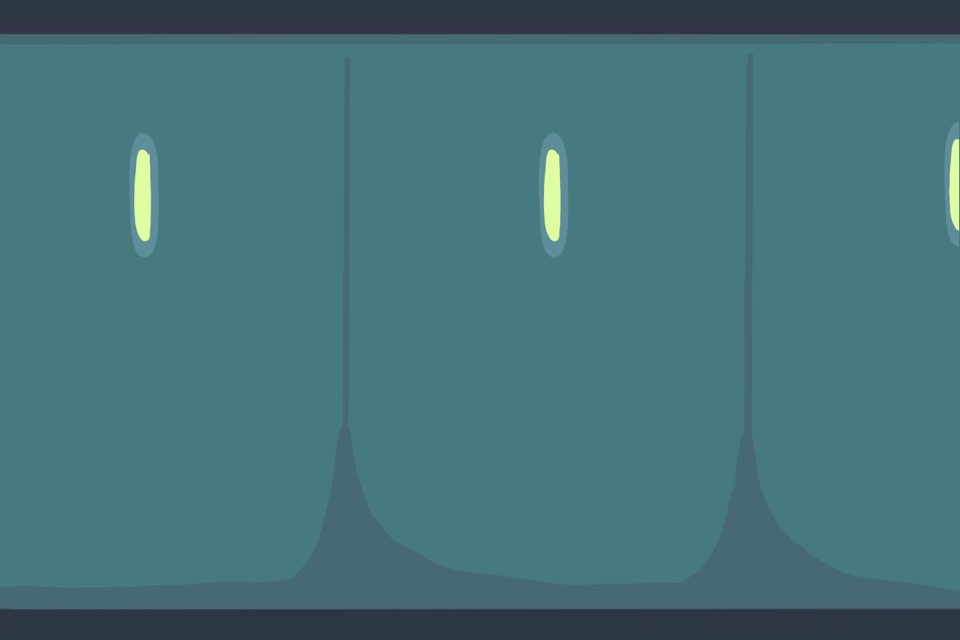
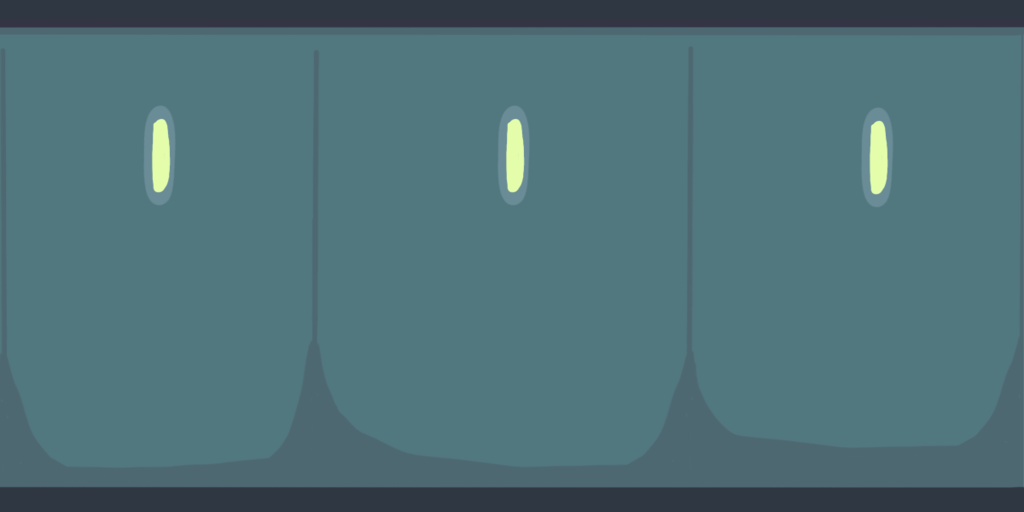
Update :: 장애물, 칼 리팩토링

diff --git a/Run.py b/Run.py
@@ -7,19 +7,18 @@ RED = (255, 0, 0)
 
 pad_width = 1024
 pad_height = 512
-background_width = 900
+background_width = 1024
 
 amongus_width = 90
 amongus_height = 120
 
-obstacle1_width = 140
-obstacle1_height = 61
-obstacle2_width = 86
-obstacle2_height = 59
+obstacle1_width = 200
+obstacle1_height = 254
+obstacle2_width = 72
+obstacle2_height = 55
+
 knife_width = 157
 knife_height = 99
-oc_width = 200
-oc_height = 254
 
 crashed = 3
 
@@ -62,11 +61,12 @@ def drawObject(obj, x,y):
 
 
 
-
 # 게임을 초기화하고 시작하는 함수
 def initGame():
-    global gamepad, clock, obstacles, background1, background2, background3, underBackground
-    global test, test2, test3, test4, jump_img, oc, crashed, knife
+    global gamepad, clock, obstacles, background1, background2
+    global test, test2, test3, test4, jump_img, crashed, knives
+
+    knives = []
     obstacles = []
 
     # pygame 라이브러리 초기화
@@ -74,35 +74,36 @@ def initGame():
     pygame.init()
     gamepad = pygame.display.set_mode((pad_width, pad_height))
     pygame.display.set_caption("PyFlying")
+
     # 그림
     test = './assets/image/am01.png'
     test2 = './assets/image/am02.png'
     test3 = './assets/image/am03.png'
     test4 = './assets/image/am04.png'
     jump_img = './assets/image/amJump.png'
+
     background1 = pygame.image.load('./assets/image/background.png')
-    background2 = pygame.image.load('./assets/image/background2.png')
-    background3 = pygame.image.load('./assets/image/background3.png')
-    underBackground = pygame.image.load('./assets/image/underBack.png')
-    obstacles.append((0, pygame.image.load('./assets/image/obstacle1.png')))
+    background2 = pygame.image.load('./assets/image/background.png')
+
+    knives.append((0, pygame.image.load('./assets/image/knife.png')))
+    obstacles.append((0, pygame.image.load('./assets/image/obstacle.png')))
     obstacles.append((1, pygame.image.load('./assets/image/obstacle2.png')))
-    obstacles.append((2, pygame.image.load('./assets/image/knife.png')))
-    oc = pygame.image.load('./assets/image/obstacle.png')
 
     # 장애물 갯수 조절
+    for i in range(2):
+        knives.append((i+1, None))
     for i in range(3):
         obstacles.append((i+2, None))
-
+        
     # FPS 설정을 위해 clock 생성 (runGame에서 사용 -> clock.tick(60) -> 60프레임)
     clock = pygame.time.Clock()
     runGame()
 
 
-
 # <-- initGame() 에서 호출!
 def runGame():
-    global gamepad, clock, obstacles, background1, background2, background3, underBackground
-    global test, test2, test3, test4, jump_img, oc, crashed, knife
+    global gamepad, clock, obstacles, background1, background2
+    global test, test2, test3, test4, jump_img, crashed, knives
 
     # 플레이어 자동차 생성
     player = jump.Characters(VELOCITY, MASS)
@@ -111,24 +112,26 @@ def runGame():
 
     leg_swap = 0;
 
-    # x = pad_width * 0.05
-    # y = pad_height * 0.8
-
+    # 배경 위치
     background1_x = 0
     background2_x = background_width
-    background3_x = background_width * 2
-    # underBack_x = 0
 
+    # 장애물 위치
     obstacle_x = pad_width
-    obstacle_y = random.randrange(0, pad_height)
+    obstacle_y = pad_height - obstacle1_height
+    obstacle2_y = pad_height - obstacle2_height
     random.shuffle(obstacles)
     obstacle = obstacles[0]
+    
 
-    oc_x = pad_width
-    oc_y = pad_height - oc_height
+    # 칼 위치
+    knife_x = pad_width
+    knife_y = random.randrange(0, pad_height)
+    random.shuffle(knives)
+    knife = knives[0]
+
 
     # 게임 종료를 위한 변수
-    
     if crashed != 0:
         flag = False
     else:
@@ -172,81 +175,70 @@ def runGame():
         # 배경 2 씩 이동
         background1_x -= 2
         background2_x -= 2
-        background3_x -= 2
-        # underBack_x -= 2
 
         # 배경이 다 지나가면 다시 설정
-        if background1_x == -(background_width*2):
-            background1_x = background_width*2
-        if background2_x == -(background_width*2):
-            background2_x = background_width*2
-        if background3_x == -(background_width*2):
-            background3_x = background_width*2
-
-        # if underBack_x == -(underBack_x):
-        #     underBack_x = 0
+        if background1_x == -(background_width):
+            background1_x = background_width
+        if background2_x == -(background_width):
+            background2_x = background_width
 
         # 장애물이 없으면 60씩 이동(시간 지체)
         # 장애물이 있으면 20씩 이동
         if obstacle[1] == None:
             obstacle_x -= 60
         else:
-            if obstacle[0] == 1:
-                obstacle_y += 4
             obstacle_x -= 20
-            if obstacle[0] == 2:
-                obstacle_x -= 10
-        # 장애물이 다 지나가면 다시 설정
+            # if obstacle[0] == 1:
+            #     obstacle_x -= 10
+        
         if obstacle_x <= 0:
             obstacle_x = pad_width
-            obstacle_y = random.randrange(0, (pad_height - amongus_height))
             random.shuffle(obstacles)
             obstacle = obstacles[0]
 
-        oc_x -= 20
-        if oc_x <= 0:
-            oc_x = pad_width
 
-        # position
-        # 캐릭터가 화면 안에서만 움직이게
-        # y += y_change
-        # if y < 0:
-        #     y = 0
-        # elif y > pad_height - amongus_height:
-        #     y = pad_height - amongus_height
+        # 칼 이동
+        if knife[1] == None:
+            knife_x -= 60
+        else:
+            knife_x -= 30
+
+        # 장애물이 다 지나가면 다시 설정
+        if knife_x <= 0:
+            knife_x = pad_width
+            knife_y = random.randrange(0, (pad_height - amongus_height))
+            random.shuffle(knives)
+            knife = knives[0]
 
         # wwwww장애물wwwwww
         if obstacle[1] != None:
             if obstacle[0] == 0:
                 obstacle_width = obstacle1_width
                 obstacle_height = obstacle1_height
+                if(player.rect.x >= obstacle_x and player.rect.x <= obstacle_x + obstacle_width):
+                    if(player.rect.y > obstacle_y and player.rect.y < obstacle_y + obstacle_height):
+                        crash()
+
             elif obstacle[0] == 1:
                 obstacle_width = obstacle2_width
                 obstacle_height = obstacle2_height
-            elif obstacle[0] == 2:
-                obstacle_width = knife_width
-                obstacle_height = knife_height
-            
-            # 원래 코드
-            # if x + player.rect.x >= obstacle_x:
-            #     if(y > obstacle_y and y < obstacle_y + obstacle_height) or\
-            #         (y+player.rect.y > obstacle_y and y + player.rect.y < obstacle_y + obstacle_height):
-            #         crash()
-            # 바꾼 코드
-            if (player.rect.x >= obstacle_x and player.rect.x <= obstacle_x + obstacle_width):
-                if(player.rect.y > obstacle_y and player.rect.y < obstacle_y + obstacle_height):
-                    crash()
+                if(player.rect.x >= obstacle_x and player.rect.x <= obstacle_x + obstacle_width):
+                    if(player.rect.y > obstacle2_y and player.rect.y < obstacle2_y + obstacle_height):
+                        crash()
 
-        if(player.rect.x >= oc_x and player.rect.x <= oc_x + oc_width):
-            if(player.rect.y > oc_y and player.rect.y < oc_y + oc_height):
-                crash()
+                    
+        # 칼
+        if knife[1] != None:            
+            if (player.rect.x >= knife_x and player.rect.x <= knife_x + knife_width):
+                if(player.rect.y > knife_y and player.rect.y < knife_y + knife_height):
+                    crash()
+            
 
 
         ''' 게임 코드 작성 '''
         player.update(VELOCITY, pad_height)
 
-        # ''' 게임 코드 끝 '''
-        '''어몽어스 그리기'''
+        '''캐릭터 그리기'''
         if player.isJump == 0:  # 바닥 일 때
             if leg_swap == 0:
                 player.chan_image(test)  # 플레이어 캐릭터 이미지 바꾸기
@@ -271,11 +263,16 @@ def runGame():
         # 화면에 출력
         drawObject(background1, background1_x, 0)
         drawObject(background2, background2_x, 0)
-        drawObject(background3, background3_x, 0)
-        # drawObject(underBackground, underBack_x, 0)
+
         if obstacle[1] != None:
-            drawObject(obstacle[1], obstacle_x, obstacle_y)
-        drawObject(oc, oc_x, oc_y)
+            if obstacle[0] == 0:
+                drawObject(obstacle[1], obstacle_x, obstacle_y)
+            if obstacle[0] == 1:
+                drawObject(obstacle[1], obstacle_x, obstacle2_y)
+
+        if knife[1] != None:
+            drawObject(knife[1], knife_x, knife_y)
+
         # 플레이어 캐릭터 화면에 그려주기
         player.draw_Characters(gamepad)
 
